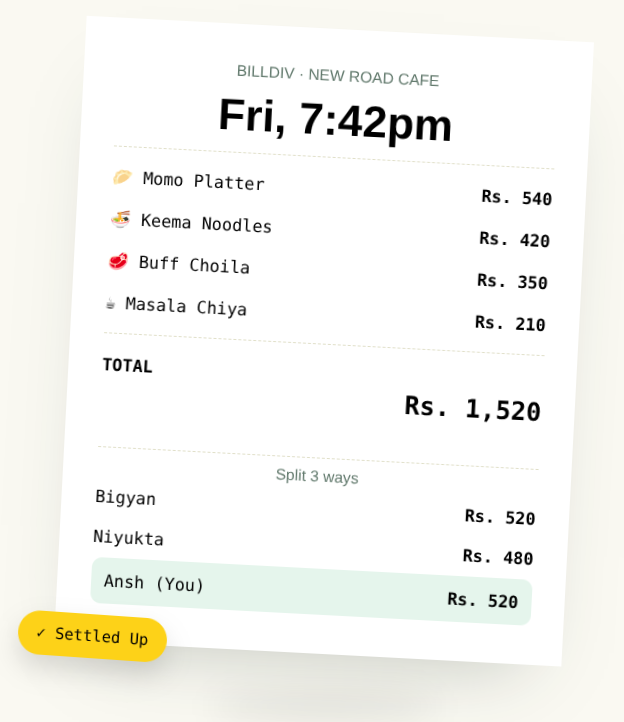
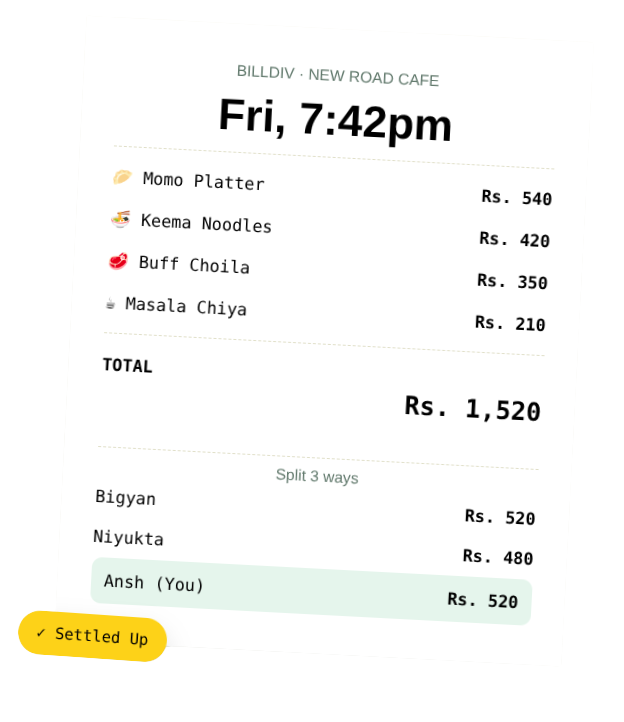
fix(capstone): fix profile picture store path

Changed region(s): [[0.0, 0.8837, 0.8526, 1.0]]

diff --git a/capstone/backend/accounts/migrations/0002_alter_users_profile_picture.py b/capstone/backend/accounts/migrations/0002_alter_users_profile_picture.py
@@ -1,0 +1,18 @@
+# Generated by Django 6.0.7 on 2026-08-02 16:09
+
+from django.db import migrations, models
+
+
+class Migration(migrations.Migration):
+
+    dependencies = [
+        ('accounts', '0001_initial'),
+    ]
+
+    operations = [
+        migrations.AlterField(
+            model_name='users',
+            name='profile_picture',
+            field=models.ImageField(blank=True, null=True, upload_to='media/profiles/'),
+        ),
+    ]

diff --git a/capstone/backend/accounts/models.py b/capstone/backend/accounts/models.py
@@ -5,7 +5,7 @@ from django.db import models
 # Create your models here.
 class Users(AbstractUser):
 	profile_picture = models.ImageField(
-		upload_to='profiles/',
+		upload_to='media/profiles/',
 		blank=True,
 		null=True,
 	)
